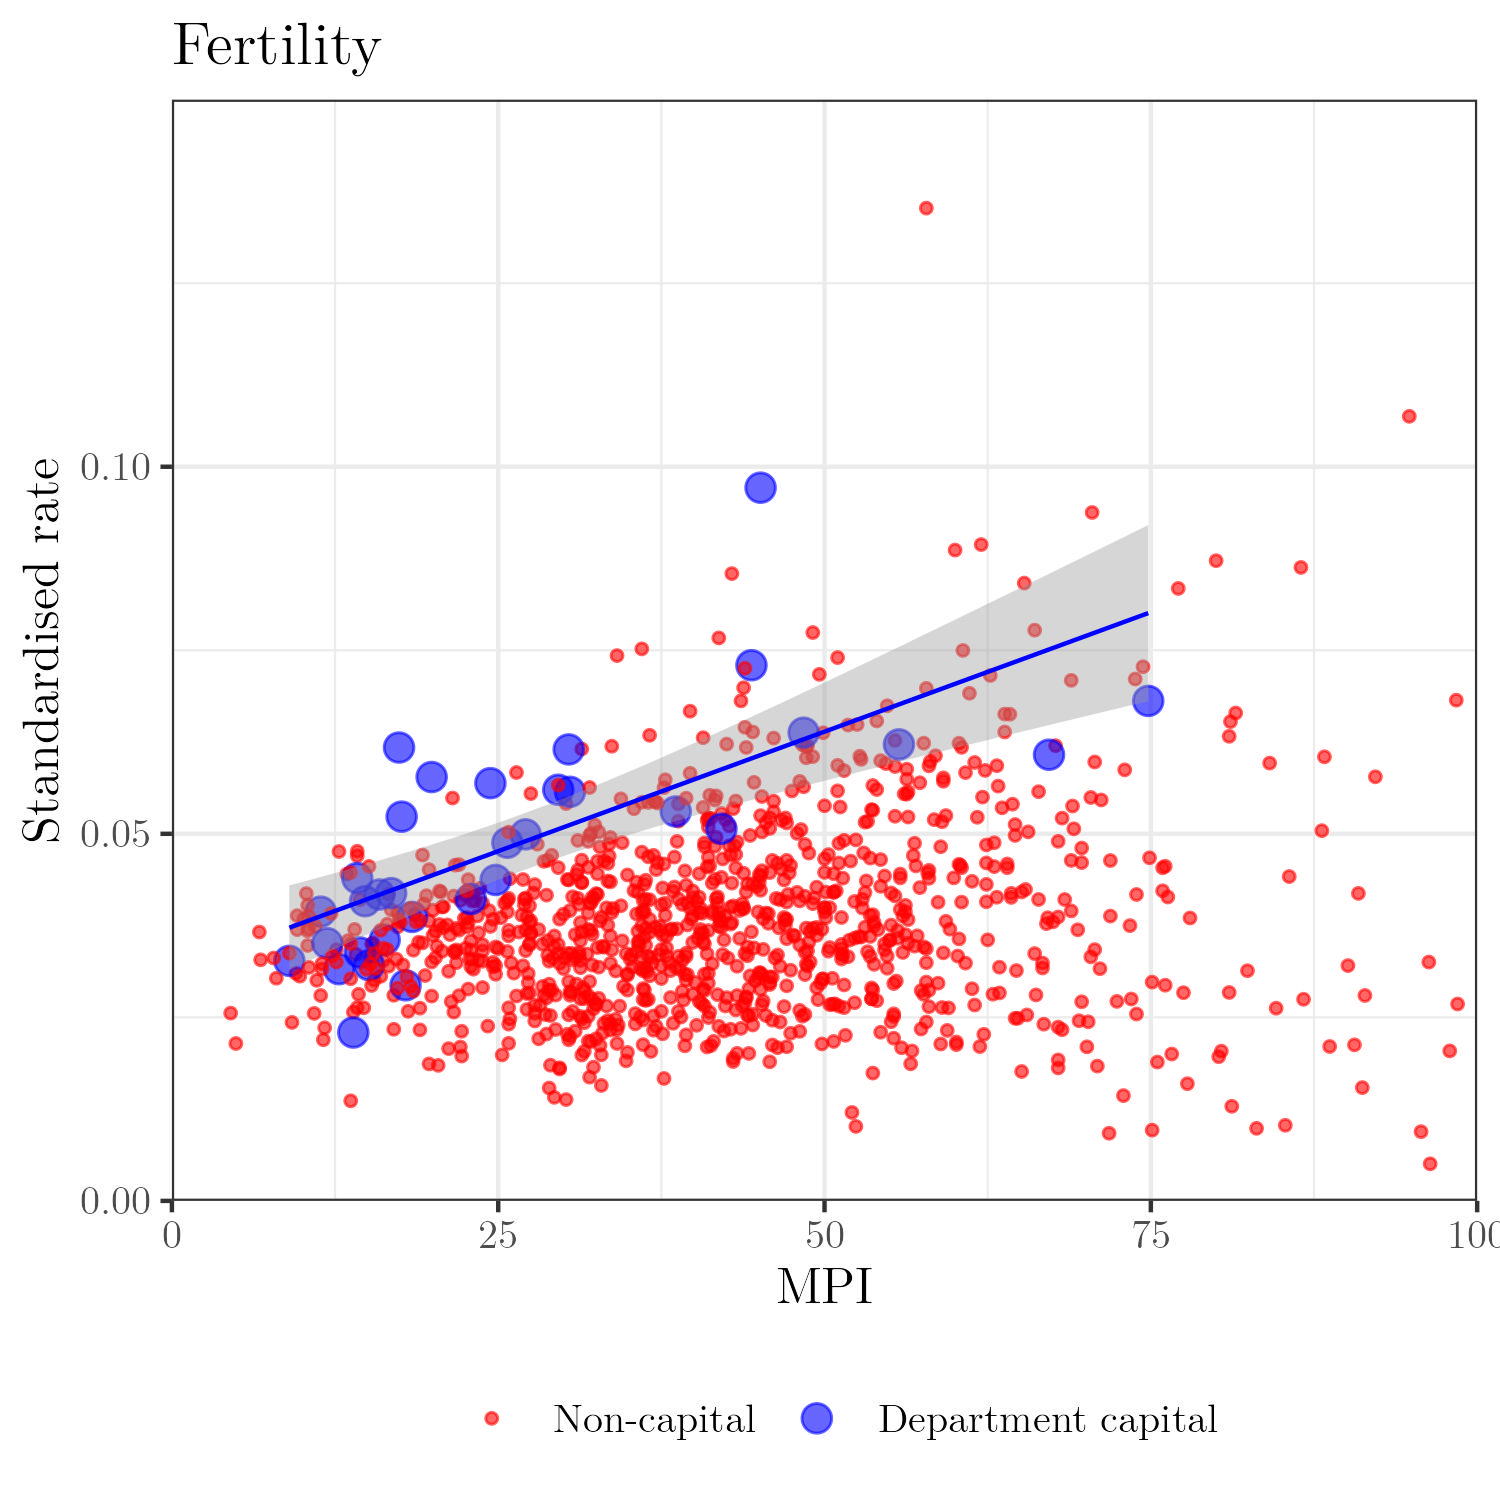
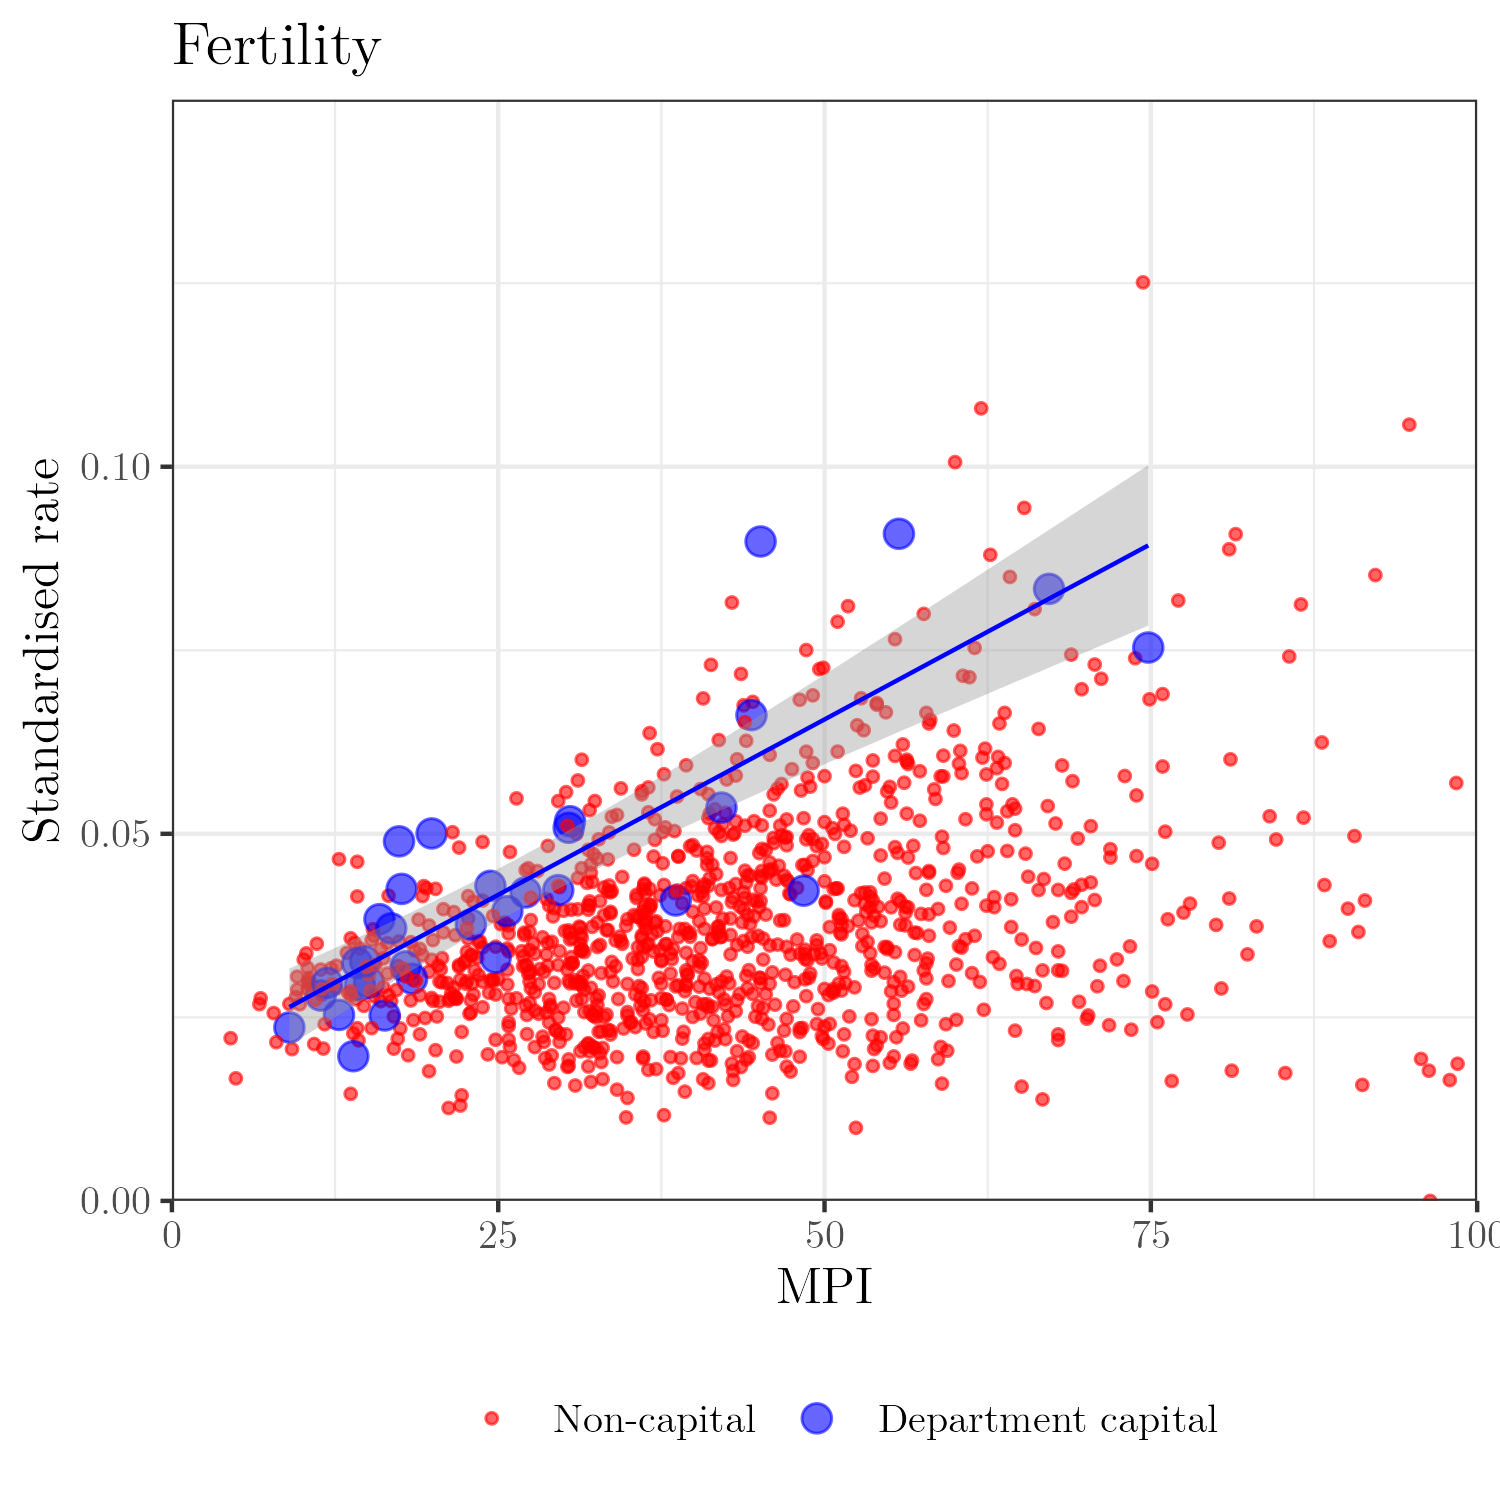
update report

diff --git a/docs/index.html b/docs/index.html
@@ -120,7 +120,7 @@ ul.task-list li input[type="checkbox"] {
 <h1>Fertility and Mortality rates</h1>
 <p>Mortality and Fertility counts are expected to be underreported in the next most deprived municipalities. In particular, we will use the Multidimensional Poverty Index (MPI) as a way to measure the deprivation levels across the country.</p>
 <p><img src="images/MPI.jpeg" height="300"></p>
-<p>For instance, let us start by analyzing the standardized mortality and fertility rates in all locations (in 2018).</p>
+<p>For instance, let us start by analyzing the standardized mortality and fertility rates in all locations (in 2021).</p>
 <table class="table">
 <colgroup>
 <col style="width: 50%">
@@ -182,28 +182,99 @@ ul.task-list li input[type="checkbox"] {
 </section>
 <section id="corrected-rates" class="level2">
 <h2 class="anchored" data-anchor-id="corrected-rates">Corrected rates</h2>
-<p>To be completed.</p>
+<p>Similarly to before, these are the standardized mortality and fertility rates (after correction) in all locations (in 2021).</p>
+<table class="table">
+<colgroup>
+<col style="width: 50%">
+<col style="width: 50%">
+</colgroup>
+<tbody>
+<tr class="odd">
+<td><img src="images/std_mortality_comparison_fit.jpeg" height="300"></td>
+<td><img src="images/std_fertility_comparison_fit.jpeg" height="300"></td>
+</tr>
+</tbody>
+</table>
+<p>Also, considering the analyzed age classes,</p>
+<ul>
+<li>The fitted number of deaths (after correction) is 1.20 times the raw number of deaths.</li>
+<li>The fitted number of births (after correction) is 1.21 times the raw number of births.</li>
+</ul>
 </section>
 </section>
 <section id="orphanhood-estimates" class="level1">
 <h1>Orphanhood Estimates</h1>
 <section id="uncorrected-results" class="level2">
 <h2 class="anchored" data-anchor-id="uncorrected-results">Uncorrected results</h2>
+<p>The summary of the orphanhood estimates <strong>before correcting the mortality and fertility counts</strong> are as follows</p>
 <ul>
 <li>Orphanhood incidence in Colombia in 2021: 69,956.</li>
 <li>Orphanhood incidence (per children) in Colombia in 2021: 0.5%.</li>
 <li>Orphanhood prevalence in Colombia in 2021: 423,670.</li>
 <li>Orphanhood prevalence (per children) in Colombia in 2021: 3.00%.</li>
 </ul>
+<p>The absolute and relative (% of children aged 0-17 years) orphanhood incidence in all municipalities (in 2021) are as follows</p>
+<table class="table">
+<colgroup>
+<col style="width: 50%">
+<col style="width: 50%">
+</colgroup>
+<tbody>
+<tr class="odd">
+<td><img src="images/orphan_inc_count_uncorrected.jpeg" height="500"></td>
+<td><img src="images/orphan_inc_rate_uncorrected.jpeg" height="500"></td>
+</tr>
+</tbody>
+</table>
+<p>Lastly, the absolute and relative (% of children aged 0-17 years) orphanhood prevalence in all departments (in 2021) are as follows</p>
+<table class="table">
+<colgroup>
+<col style="width: 50%">
+<col style="width: 50%">
+</colgroup>
+<tbody>
+<tr class="odd">
+<td><img src="images/orphan_pre_count_uncorrected.jpeg" height="350"></td>
+<td><img src="images/orphan_pre_rate_uncorrected.jpeg" height="350"></td>
+</tr>
+</tbody>
+</table>
 </section>
 <section id="corrected-results" class="level2">
 <h2 class="anchored" data-anchor-id="corrected-results">Corrected results</h2>
+<p>The summary of the orphanhood estimates <strong>after correcting the mortality and fertility counts</strong> are as follows</p>
 <ul>
 <li>Orphanhood incidence in Colombia in 2021: 100,134.</li>
 <li>Orphanhood incidence (per children) in Colombia in 2021: 0.71%.</li>
 <li>Orphanhood prevalence in Colombia in 2021: 623,218.</li>
 <li>Orphanhood prevalence (per children) in Colombia in 2021: 4.42%.</li>
 </ul>
+<p>The absolute and relative (% of children aged 0-17 years) orphanhood incidence in all municipalities (in 2021) are as follows</p>
+<table class="table">
+<colgroup>
+<col style="width: 50%">
+<col style="width: 50%">
+</colgroup>
+<tbody>
+<tr class="odd">
+<td><img src="images/orphan_inc_count_corrected.jpeg" height="500"></td>
+<td><img src="images/orphan_inc_rate_corrected.jpeg" height="500"></td>
+</tr>
+</tbody>
+</table>
+<p>Lastly, the absolute and relative (% of children aged 0-17 years) orphanhood prevalence in all departments (in 2021) are as follows</p>
+<table class="table">
+<colgroup>
+<col style="width: 50%">
+<col style="width: 50%">
+</colgroup>
+<tbody>
+<tr class="odd">
+<td><img src="images/orphan_pre_count_corrected.jpeg" height="350"></td>
+<td><img src="images/orphan_pre_rate_corrected.jpeg" height="350"></td>
+</tr>
+</tbody>
+</table>
 </section>
 </section>
 
